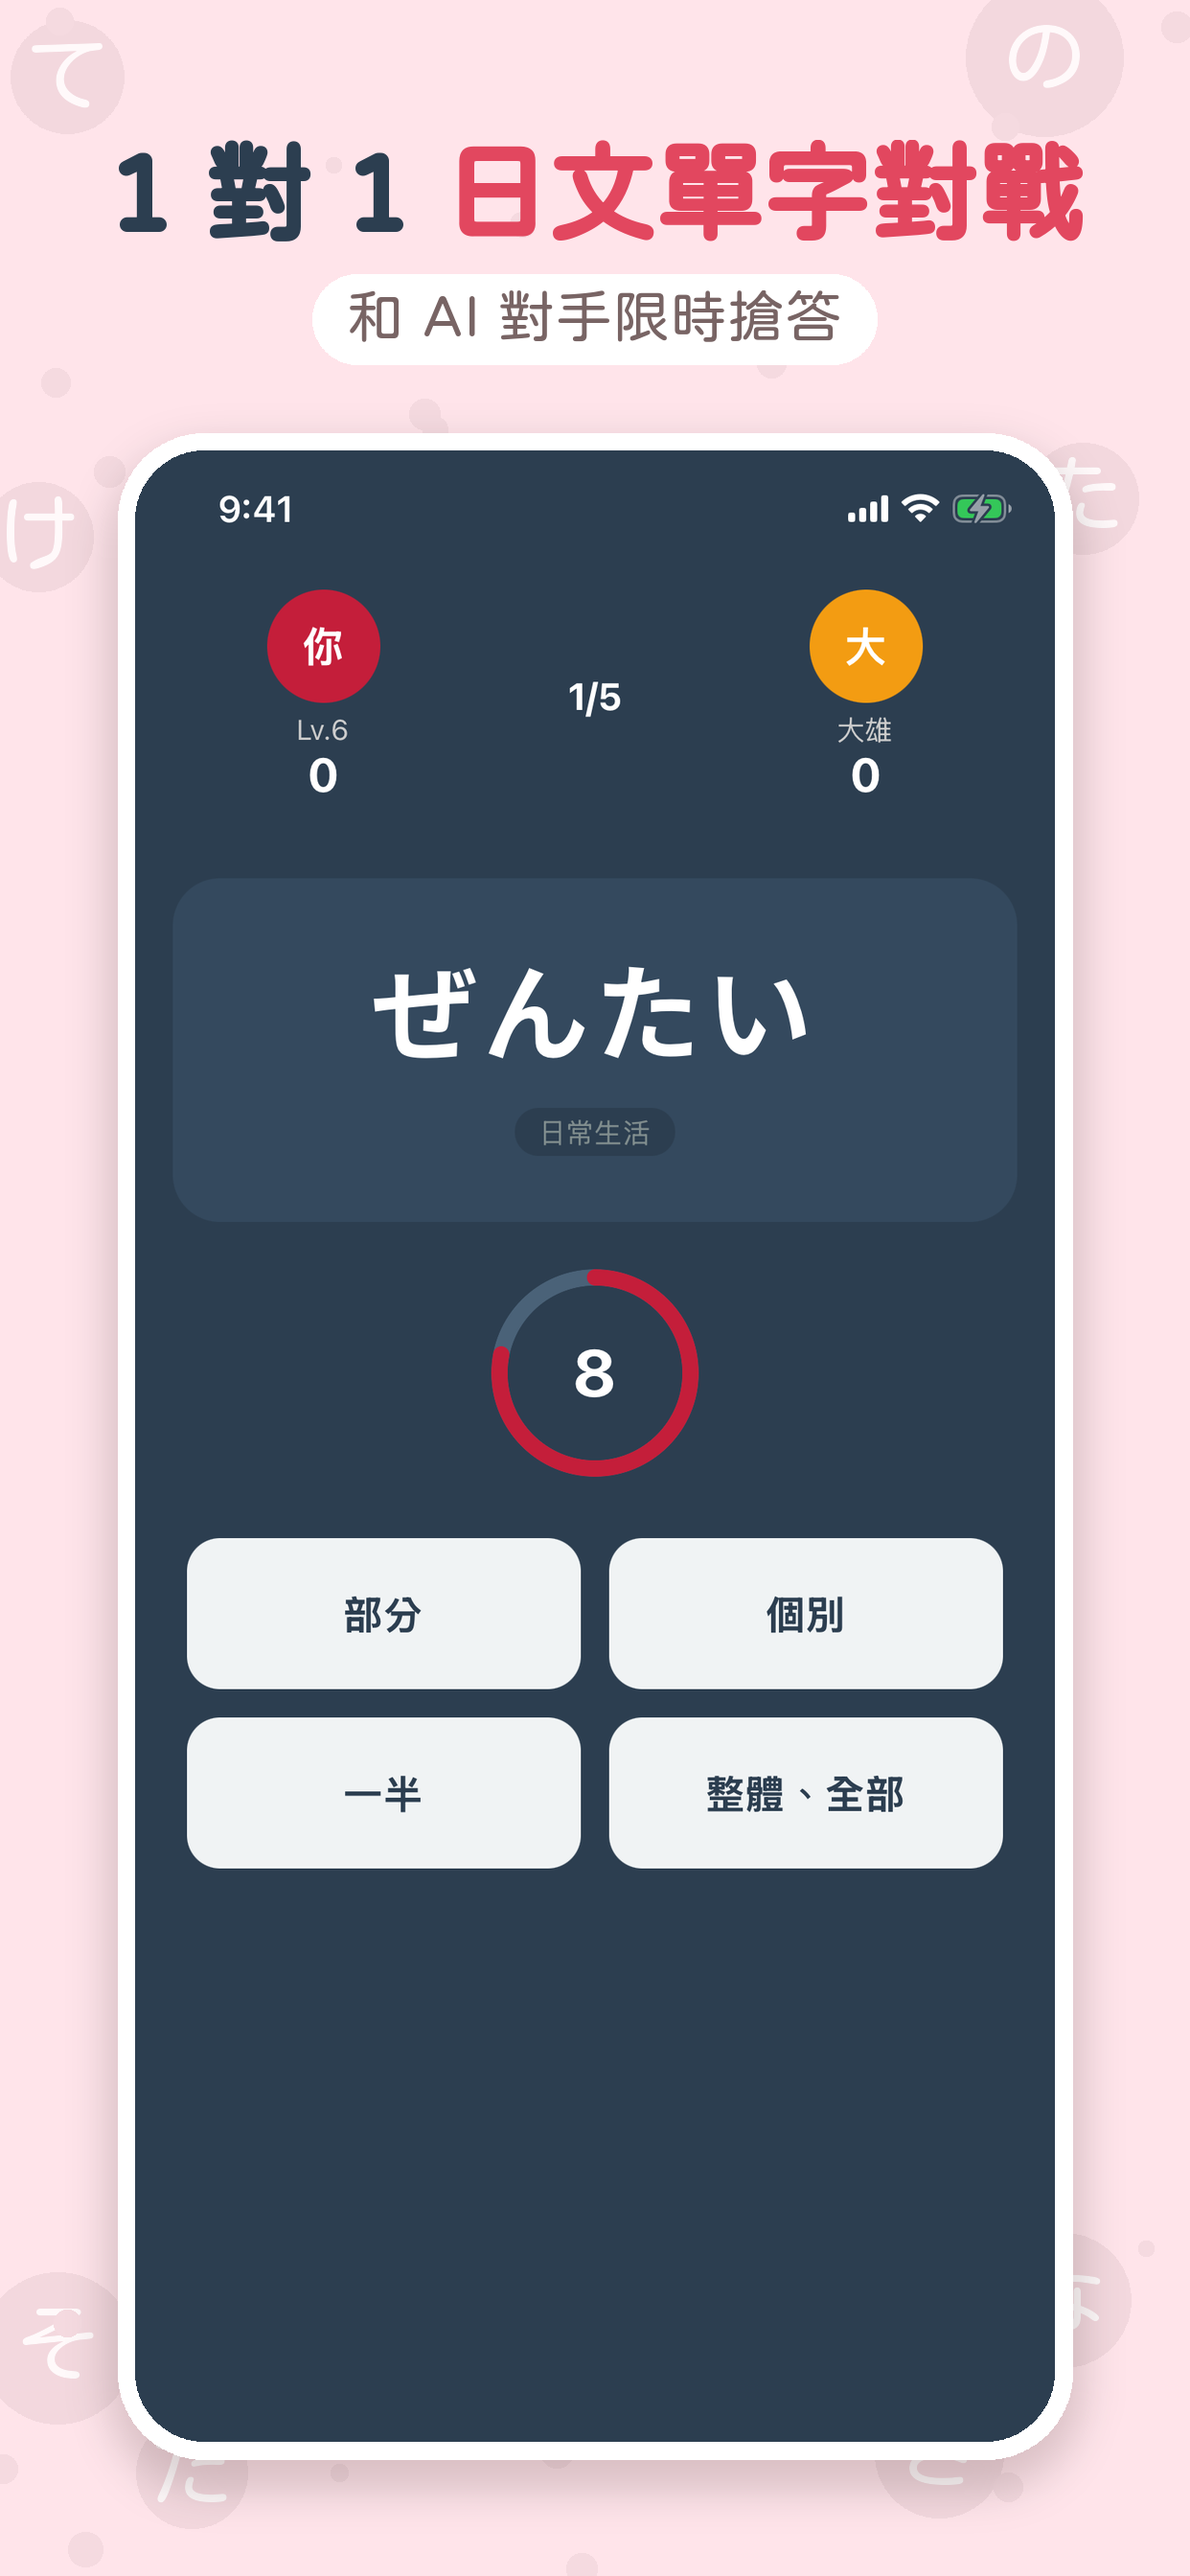
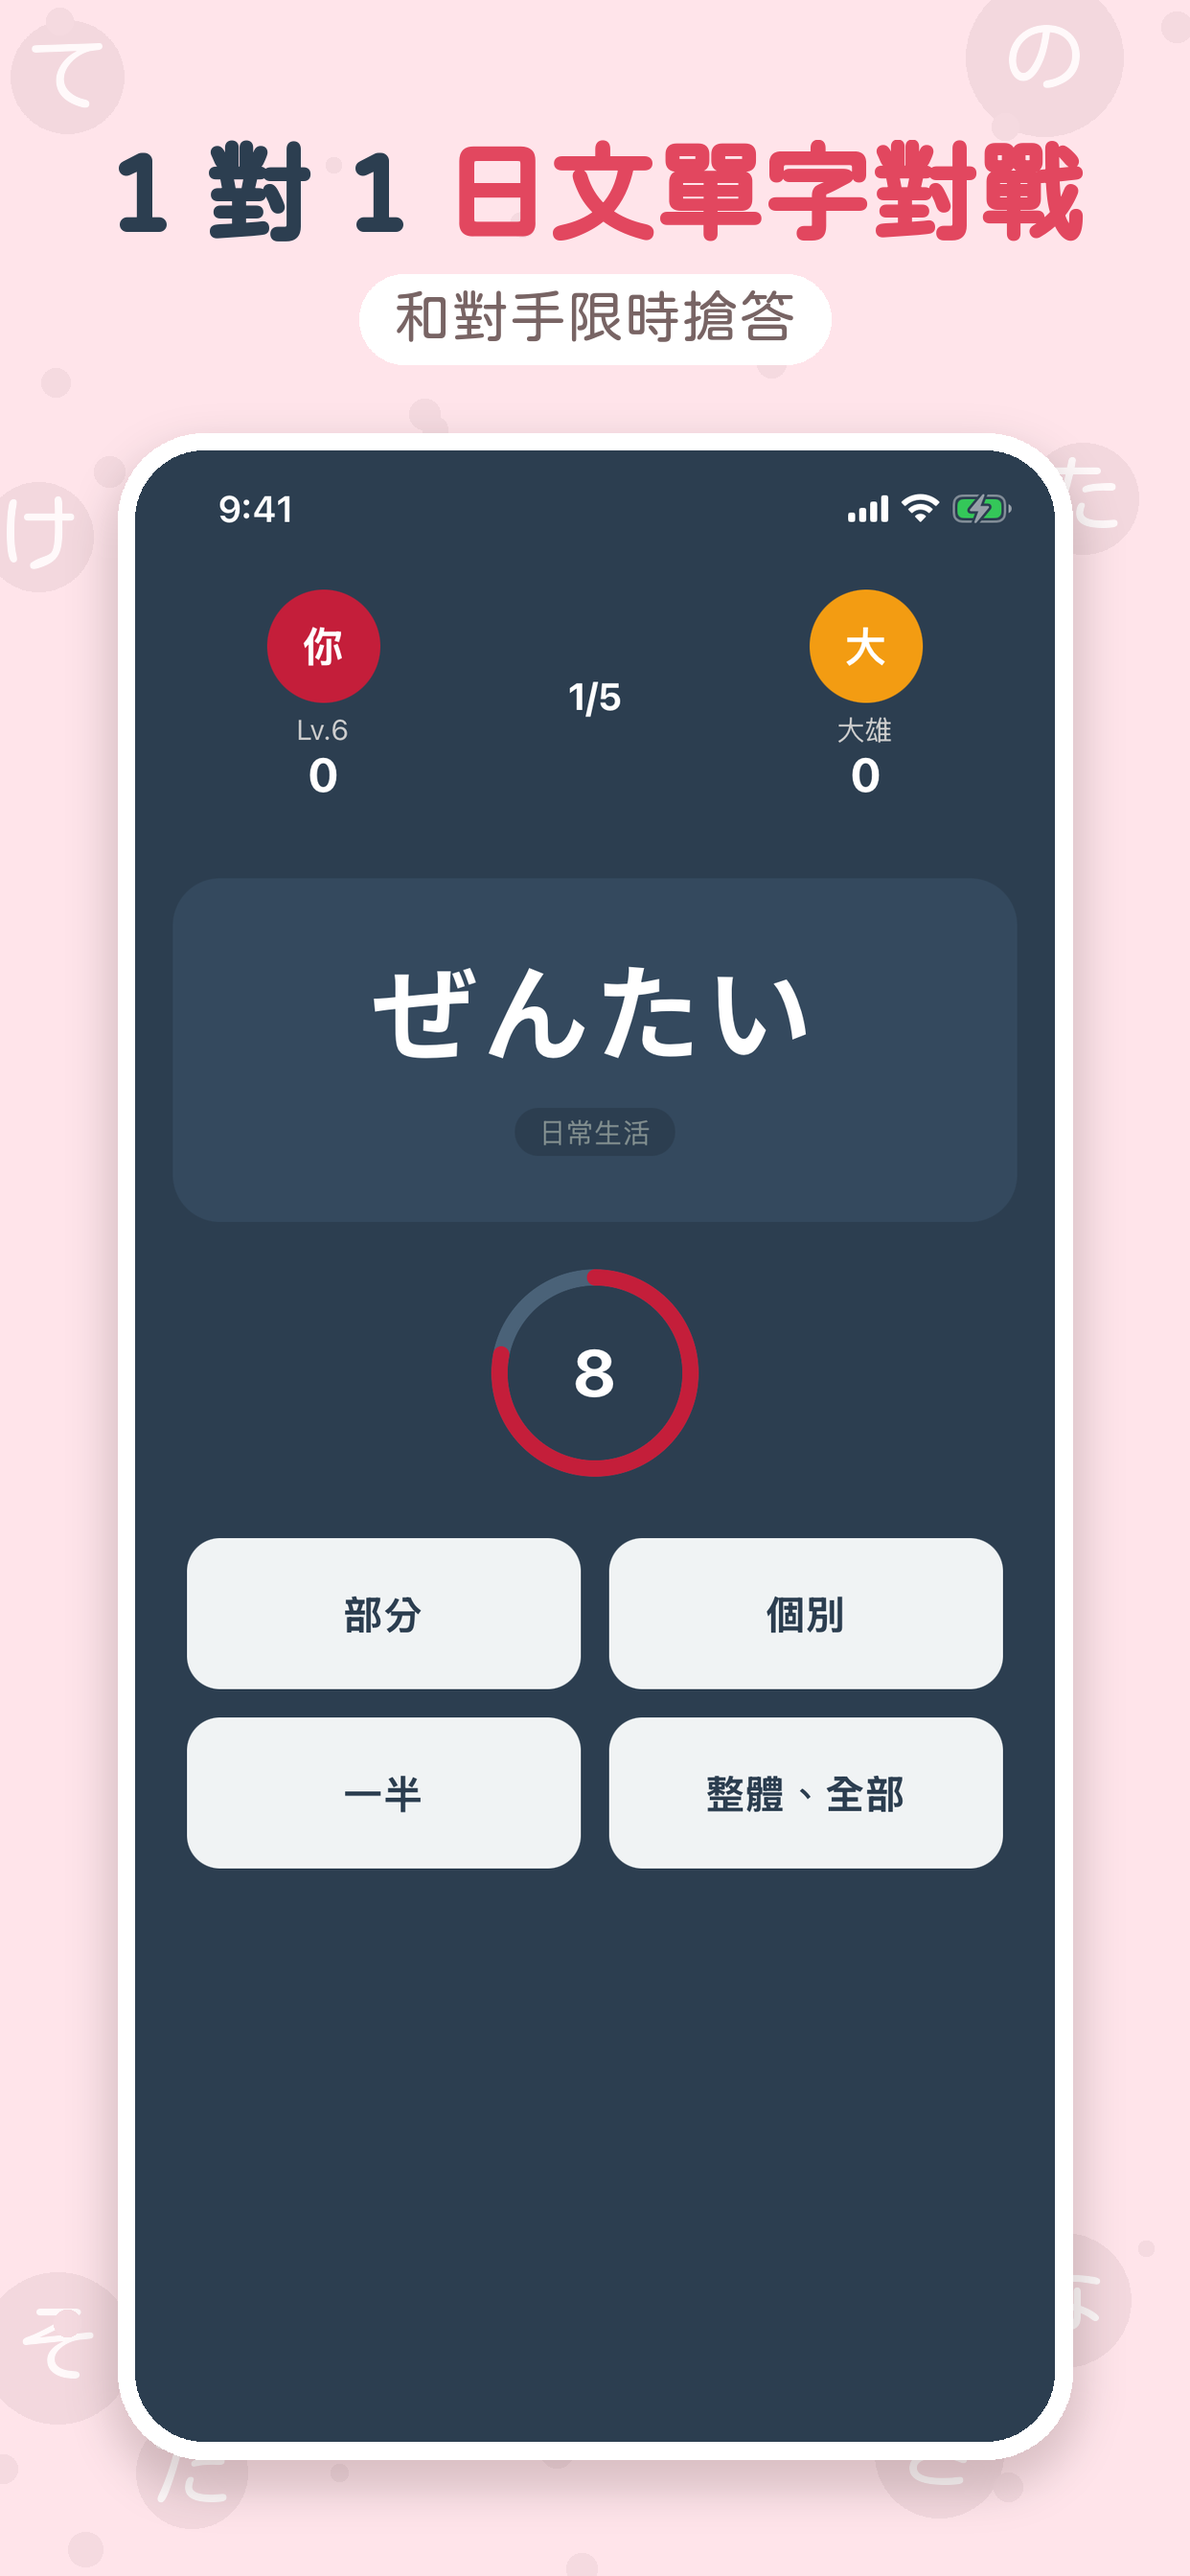
appstore: drop 'AI' from the first screenshot's subline

Changed region(s): [[0.2448, 0.0938, 0.7343, 0.1562]]

diff --git a/scripts/compose_appstore_screenshots.py b/scripts/compose_appstore_screenshots.py
@@ -28,14 +28,14 @@ CREAM = (255, 246, 238)
 
 CAPTIONS = {
     'zh': [
-        ('battle1', ['1 對 1 ', '日文單字對戰'], '和 AI 對手限時搶答'),
+        ('battle1', ['1 對 1 ', '日文單字對戰'], '和對手限時搶答'),
         ('correct', ['10 秒', '搶答'], '越快答對，分數越高'),
         ('home', ['N4 到 N2 ', '任你選'], '640 個單字，中英雙語'),
         ('result', ['打贏對手，', '累積升級'], '每一題的答案都看得到'),
         ('rank', ['每週', '排行榜'], '看看你這週排第幾'),
     ],
     'en': [
-        ('battle1', ['Japanese ', 'vocab battles'], 'Race an AI opponent'),
+        ('battle1', ['Japanese ', 'vocab battles'], 'Race an opponent'),
         ('correct', ['10 seconds ', 'per question'], 'Answer faster, score higher'),
         ('home', ['Pick your level: ', 'N4 to N2'], '640 words, English and Chinese'),
         ('result', ['Win and ', 'level up'], 'Review every answer'),

diff --git a/docs/appstore/listing.md b/docs/appstore/listing.md
@@ -112,7 +112,7 @@ GREAT FOR
 
 | # | 畫面 | 繁中標題 / 副標 | English headline / subline |
 |---|---|---|---|
-| 1 | 作答中 | 1 對 1 日文單字對戰 / 和 AI 對手限時搶答 | Japanese vocab battles / Race an AI opponent |
+| 1 | 作答中 | 1 對 1 日文單字對戰 / 和對手限時搶答 | Japanese vocab battles / Race an opponent |
 | 2 | 答對瞬間 | 10 秒搶答 / 越快答對，分數越高 | 10 seconds per question / Answer faster, score higher |
 | 3 | 首頁 | N4 到 N2 任你選 / 640 個單字，中英雙語 | Pick your level: N4 to N2 / 640 words, English and Chinese |
 | 4 | 勝利結算 | 打贏對手，累積升級 / 每一題的答案都看得到 | Win and level up / Review every answer |
